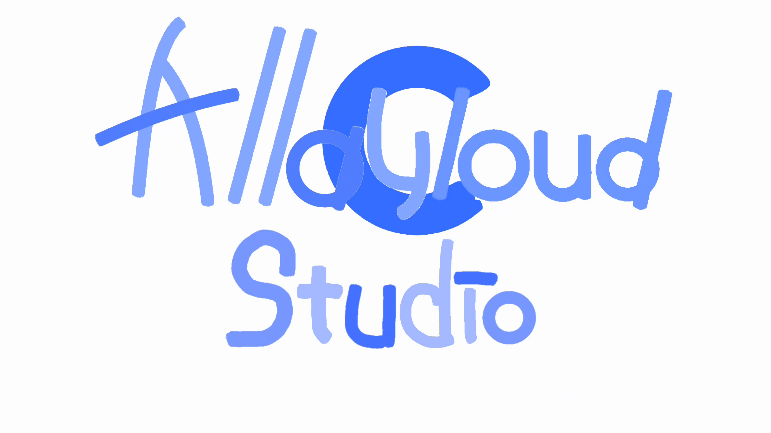
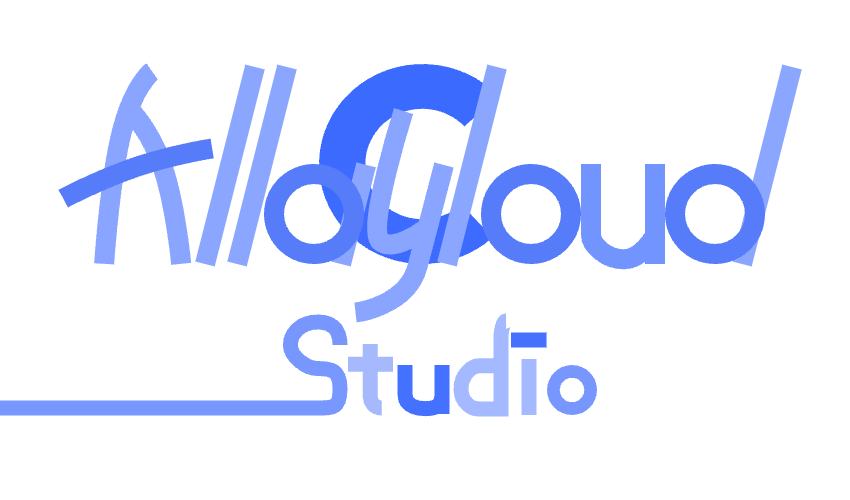
更新
广告位更新，以及卡片的修复与LOGO的完善

Changed region(s): [[0.0, 0.03, 0.965, 0.8406]]

diff --git a/Banner.css b/Banner.css
@@ -1,0 +1,119 @@
+.Banner{
+    position: relative;
+    background-color: rgb(186, 191, 255);
+    border-radius: 8px;
+    height: 200px;
+    transition: 0.5s;
+}
+.Banner:hover{
+    height:350px;
+}
+
+.BannerContent,
+.BannerTitle,
+.BannerText,
+.BannerBold {
+    margin: 1rem;
+    padding: 0;
+}
+
+    .BannerImage{
+        width: 100%;
+        height: 100%;
+        object-fit: cover;
+    }
+
+    .BannerContent{
+        position: relative;
+        margin: 1rem;
+        
+    }
+
+    .BannerTitle{
+        position: relative;
+        color: transparent;
+        font-size: 4rem; /* 增大字号，可以根据需要调整 */
+        display: inline-block;
+        line-height: 1; 
+        margin-top: 0;
+        padding:0;
+        top: 0px;
+        line-height: 0.9;
+        background: linear-gradient(to right,
+        rgb(115, 103, 255),
+        rgb(99, 107, 255),
+        rgb(83, 92, 255),
+        rgb(118, 131, 255));
+        background-clip: text;
+        background-size: 1000%;
+        animation: TextAnim 5s infinite;
+    }
+    @keyframes TextAnim {
+        0% {
+            background-position: 0% 20%;
+        }
+        25% {
+            background-position: 50% 50%;
+        }
+        50% {
+            background-position: 20% 75%;
+        }
+        75%{
+            background-position: 100% 100%;
+        }
+        100% {
+            background-position: 0% 20%;
+        }
+    }
+    .BannerCircle{
+        color: rgb(197, 202, 255);
+        position: absolute;
+        width: 100%;
+        height: 100%;
+        z-index: 1;
+        background: rgb(197, 202, 255);
+        clip-path: circle(500px at 50% 50%);
+        animation: movedad 5s infinite;
+
+    }
+    .BannerCircle::after{
+        color: rgb(197, 202, 255);
+        background: rgb(197, 202, 255);
+    }
+    @keyframes movedad {
+        0% {
+            clip-path: circle(100px at 10% 0%);
+        }
+        50% {
+            clip-path: circle(150px at 80% 50%);
+        }
+        100% {
+            clip-path: circle(100px at 10% 50%);
+        }
+      }
+    .BannerText{
+        color: white;
+        font-size: 30px;
+        font-weight: bold;
+        
+    }
+    .BannerBold{
+        font-weight: bold;
+        font-size: 30px;
+        color: rgb(255, 255, 255);
+        font-family: '幼圆';
+        font-weight: 999;
+        background-color: rgb(80, 92, 255);
+        border-radius: 4px;
+    }
+
+    .BannerText,
+    .BannerBold {
+        opacity: 0; /* 初始隐藏，不占用空间 */
+        transition: opacity 0.3s ease; /* 添加过渡效果，使淡入淡出平滑 */
+    }
+
+    .Banner:hover .BannerText,
+    .Banner:hover .BannerBold {
+        opacity: 1; /* 当鼠标悬停在.Banner上时，淡入显示 */
+    }

diff --git a/index.html b/index.html
@@ -6,22 +6,43 @@
     <link rel="icon" type="image/x-icon" href="./64x64-logo.ico">
     <link href="./styles.css" rel="stylesheet" type="text/css" />
     <link href="./cards.css" rel="stylesheet" type="text/css" />
+    <link href="./Banner.css" rel="stylesheet" type="text/css" />
+    <link href="./Header.css" rel="stylesheet" type="text/css" />
+
+
 </head>
 
+
 <header>
-    <h1 class="MainTitle" data-text="This is Allay"></h1>
+    <!-- <h1 class="MainTitle" data-text="This is Allay"></h1> -->
 </header>
 
 <body>
 
     <div class="header">
         <img class="topImage" src="./img/图片2.png" height="128px" width="224px">
-        <font size="6">欢迎来到Allay的火柴盒</font>
-        <font size="5"><br>我悦灵 将会承认你们旅途的价值与意义
-            <br>现在 你们可以尽情欢呼了!</font>
+        <h1 class="TopTitleBold">Allay</h1>
+        <h1 class="TopTitle">
+            >我悦灵 将会承认你们旅途的价值与意义
+            <br>现在 你们可以尽情欢呼了!</h1>
     </div>
 
+    
+
     <div class="container">
+
+        <div class="Banner" >
+            <div class="BannerContent">
+                <h4 class="BannerTitle">广告位招租哦吼！</h4>
+                <p class="BannerText">
+                    欢迎来Allay的火柴盒投放广告！<br>
+                </p>
+                <p class="BannerBold">
+                    免费！！
+                </p>
+            </div>
+        </div>
+
         <div class="cards">
             <div class="imgBx">
                 <img class="imgShow" src="./img/图片3.png" alt="Avatar" width=228 height=128>
@@ -86,7 +107,7 @@
                 <h4 class="title"><b>!i流星雨i!</b></h4>
                 <p class="description hidden">还是从网上淘来的<br>
                     想不到吧，其实本人的前端技术不咋地<br>
-                    <a class="link" href="StringRain.html">Click to there!</a>
+                    <a class="link" href="colorfulRaining.html">Click to there!</a>
                 </p>
             </div>
 

diff --git a/cards.css b/cards.css
@@ -1,7 +1,6 @@
 .container{
     position: relative;
     display: flex;
-    margin-top: 10rem;
     justify-content: center;
     align-items: center;
     flex-wrap: wrap;
@@ -14,7 +13,7 @@
     display: flex;
     justify-content: center;
     width: 400px;
-    height: 250px;
+    min-height: 250px;
     position: relative;
     display: flex;
     flex-direction: row;
@@ -22,7 +21,7 @@
     align-items: flex-start;
     background: linear-gradient(to right bottom, #6c7bff, #3e44ff);
     border-radius: 20px;
-    transition: 0.5s;
+    transition: 3s ease-in-out;
     margin-top: 5rem;
 }
     
@@ -77,8 +76,6 @@
         width:100%;
         height: calc(100% - 50px);
         top:-10%;
-        left:0;
-        right:0;
         position: absolute;
         border-radius: 20px;
         transition: 0.5s;
@@ -86,10 +83,14 @@
         justify-content: center;
         min-height: 150px;
     }
-    
+    .cards .imgShow{
+        border-radius: 4px;
+        border-width: 1px;
+        border-style: solid;
+        border-color: #4617ff;
+    }
     .cards:hover{
-        z-index: 1;
-        height: 300px;
+        height: auto;
         background: linear-gradient(to left, #7785ff, #3e44ff);
 
     }
@@ -107,11 +108,10 @@
             border-radius: 32px;
             box-shadow: 8px 8px rgba(101, 159, 253, 0.9);
             width: 40%;
-            height: 30%;
+            height: 40%;
             position:absolute;
             transform-origin: top left;
             transform: translate(-130px, -30px);
-            
             cursor: pointer;
 
         }

diff --git a/Header.css b/Header.css
@@ -1,0 +1,25 @@
+.TopTitle{
+    color: rgb(103, 128, 255);
+    font-size: 2rem;
+}
+.TopTitleBold {
+    font-size: 8em;
+    margin: 0;
+    display: inline-block; /* 为了使背景渐变仅作用于文字，确保元素为inline-block或block */
+    font-weight: bold; /* 假设需要加粗，可根据实际需求调整 */
+    background: linear-gradient(to right, lightblue, rgb(130, 134, 255),rgb(70, 88, 255),rgb(153, 170, 255));
+    background-clip: text; /* 使背景渐变应用于文字 */
+    color: transparent; /* 使文字颜色透明，显示背景渐变 */
+    background-size: 300%;
+    animation: TextAnim 3s infinite; /* 引用动画名称及设置无限循环 */
+
+}
+
+/* 定义动画关键帧 */
+@keyframes TextAnim {
+  0% { background-position: 0% 0%; }
+  25% { background-position: 100% 0%; }
+  50% { background-position: 100% 100%; }
+  75% { background-position: 0% 100%; }
+  100% { background-position: 0% 50%; }
+}

diff --git a/styles.css b/styles.css
@@ -70,14 +70,14 @@
 }
 
 .MainTitle::after {
-  content: attr(data-text);
-  color: transparent;
-  position: absolute;
-  top: 100px;
-  background: url(./img/colorbg1.png);
-  clip-path: circle(500px at 50% 50%);
-  animation: movelight 5s infinite;
-  background-clip: text;
+    content: attr(data-text);
+    color: transparent;
+    position: relative;
+    top: 100px;
+    background: url(./img/colorbg1.png);
+    clip-path: circle(500px at 50% 50%);
+    animation: movelight 5s infinite;
+    background-clip: text;
 }
 
 .ani:hover {
